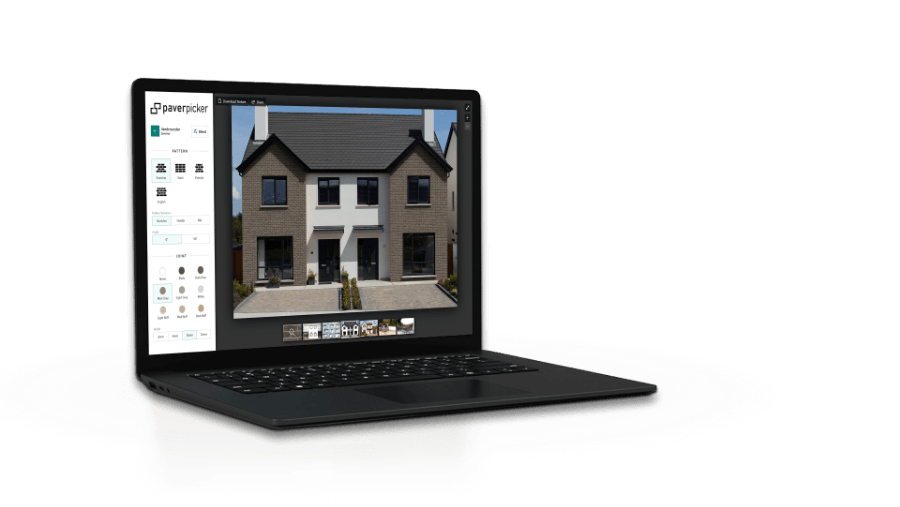
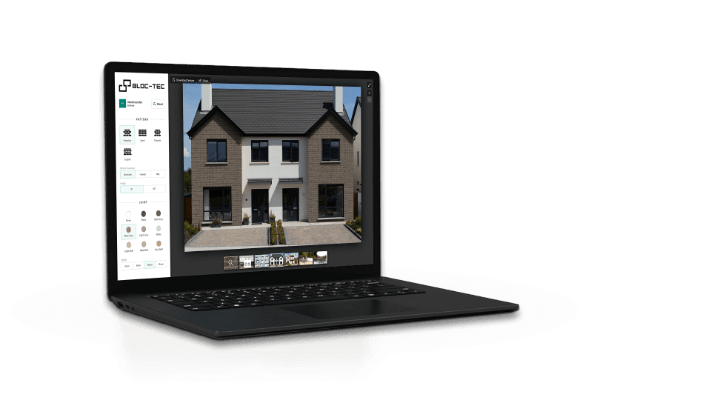
working with fixes

diff --git a/pages/software/textures-module/main.scss b/pages/software/textures-module/main.scss
@@ -194,7 +194,7 @@ $speed3: 1.9s;
       }
       .seamless-page__blend{
         .slide-section__decor{
-          transform: translate3d(-50%,-5%,0) scale(1);
+          transform: translate3d(-50%,0%,0) scale(1);
           @include special3{
             transform: translate3d(-50%,4%,0) scale(1);
           }
@@ -208,7 +208,7 @@ $speed3: 1.9s;
       transform: translate3d(0,-300vh,0);
       .seamless-page__blend{
         .slide-section__decor{
-          transform: translate3d(-50%,-5%,0) scale(1);
+          transform: translate3d(-50%,0%,0) scale(1);
           @include special3{
             transform: translate3d(-50%,4%,0) scale(1);
           }  
@@ -239,7 +239,7 @@ $speed3: 1.9s;
       transform: translate3d(0,-400vh,0);
       .seamless-page__blend{
         .slide-section__decor{
-          transform:  translate3d(-263%, calc(100vh + 122%), 0) scale(3.65);
+          transform:  translate3d(-263%, calc(100vh + 130%), 0) scale(3.65);
           @include special3{
             transform:  translate3d(-263%, calc(100vh + 136%), 0) scale(3.65);
           }  
@@ -282,15 +282,15 @@ $speed3: 1.9s;
       transform: translate3d(0,-400vh,0);
       .seamless-page__blend{
         .slide-section__decor{
-          transform:  translate3d(-233.8%, calc(100vh + 122%), 0) scale(3.65);
+          transform:  translate3d(-233.8%, calc(100vh + 130%), 0) scale(3.65);
           @include special3{
-            transform:  translate3d(-233.8%, calc(100vh + 136%), 0) scale(3.65);
+            transform:  translate3d(-233.8%, calc(100vh + 130%), 0) scale(3.65);
           }  
           &_alternative{
-            transform:  translate3d(131%, calc(100vh + 136%), 0) scale(3.65);
+            transform:  translate3d(131%, calc(100vh + 130%), 0) scale(3.65);
             opacity: 1;
             @include special3{
-              transform:  translate3d(131%, calc(100vh + 136%), 0) scale(3.65);
+              transform:  translate3d(131%, calc(100vh + 130%), 0) scale(3.65);
             }  
           }
           .slide-section__decor-item{
@@ -681,7 +681,7 @@ $speed3: 1.9s;
         left: 50%;
         width: clamp(34vh, 23.438vw, 23.438vw);
         height: clamp(34vh, 23.438vw, 23.438vw);
-        transform: translate3d(161%, calc(100vh + 122%), 0) scale(3.65);
+        transform: translate3d(161%, calc(100vh + 130%), 0) scale(3.65);
         opacity: .5;
         transition: $speed ease-in-out, opacity .5s ease-in-out;
         @include special3{

diff --git a/pages/photography/index.vue b/pages/photography/index.vue
@@ -68,7 +68,7 @@
                 <div class="slide-section__brick">
                   <div class="slide-section__brick-box position_relative">
                     <label class="background-slider position_absolute">
-                      <input type="range" v-model="slideval" max="100" min="0" @input="slideInput"/>
+                      <input type="range" :class="{'animation_false' : slideInteract}" v-model="slideval" max="100" min="0" @input="slideInput"/>
                       <span class="background-slider__icon">
                         <span class="background-slider__icon-wrapper ">
                           <div class="background-slider__icon-wrapper-inside d_flex align-items_center">
@@ -165,10 +165,12 @@
       pastSlide = ref(0),
       videoCount = ref(1),
       slideval = ref(50),
+      slideInteract = ref(false),
       ticking = ref(false),
       scrlTicking = ref(true);
   
   function slideInput(){
+    slideInteract.value = true
     document.querySelector('.foreground-img').style.width = slideval.value+'%'
     document.querySelector('.background-slider__icon').style.width = slideval.value+'%'
   }
@@ -196,6 +198,10 @@
       if(currentSlide.value!==3)
         scrl.classList.remove('oh')
       setTimeout(() => {
+        slideval.value = 50
+        document.querySelector('.foreground-img').style.width = slideval.value+'%'
+        document.querySelector('.background-slider__icon').style.width = slideval.value+'%'
+        console.log(slideval.value)
         if(currentSlide.value===3)
           scrl.classList.add('oh')
         ticking.value = false;

diff --git a/pages/contacts/index.vue b/pages/contacts/index.vue
@@ -20,9 +20,9 @@
                 </a>
               </div>
               <div class="contacts__details-item">
-                <a href="mailto:info@paverpicker.com" class="d_flex ">
+                <a href="mailto:info@bloc-tec.com" class="d_flex ">
                   <div v-html="email" class="icon icon_email"></div>
-                  <p class="fs_r32">info@paverpicker.com</p>
+                  <p class="fs_r32">info@bloc-tec.com</p>
                 </a>
               </div>
               <div class="contacts__details-item">

diff --git a/pages/photography/main.scss b/pages/photography/main.scss
@@ -390,12 +390,12 @@ $speed3: 1.4s;
           width: 50px;
           height: 50px;
         }
-        // &:hover{
-        //   &+span div span,
-        //   &+span div span svg{
-        //     animation: none !important;
-        //   }
-        // }
+        &.animation_false{
+          &+span div span,
+          &+span div span svg{
+            animation: none !important;
+          }
+        }
       }
     }
   }
